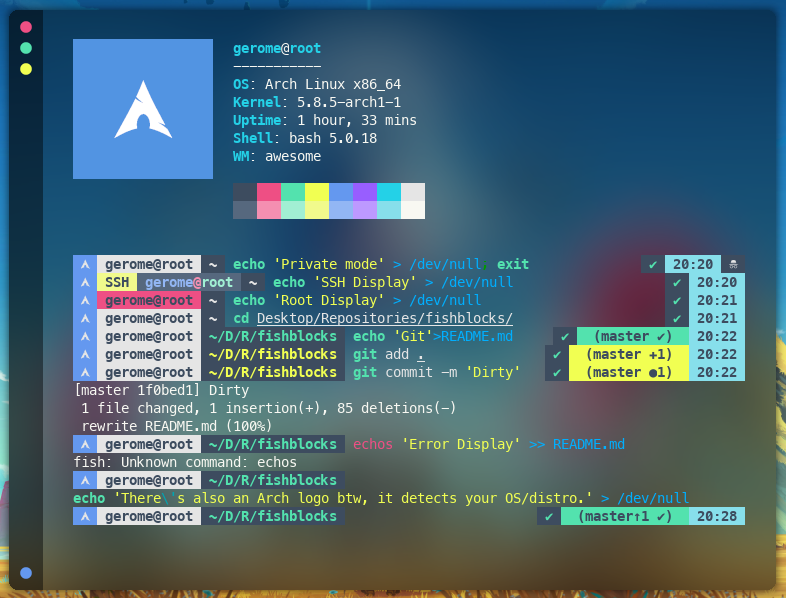
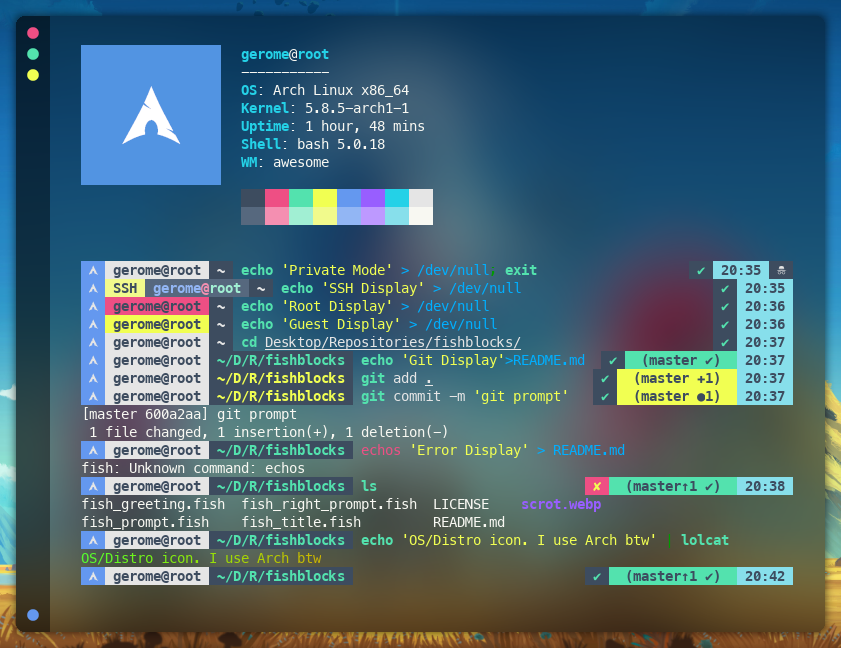
scrot

diff --git a/README.md b/README.md
@@ -1,1 +1,85 @@
-Git Display
+# fishblocks
+A dead simple fishshell prompt.
+
+| Fishblocks Preview |
+| --- |
+| ![Preview](scrot.webp) |
+
+## Dependencies
+
++ `fish > 3.1.0`
++ `git`
++ A nerd font. `MesloLGS NF` is recommended.
+
+## Usage
+
++ Install the dependencies.
++ Clone.
++ Copy the repository's content to `/PATH/TO/FISH/CONFIG/functions/`.
+
+## Features
+
++ Fast!
++ OS/Distribution icon display.
++ Private mode display.
++ SSH display.
++ Git display with color coding.
++ Previous command status display.
++ Dynamic background color for time display.
++ And many more.
+
+## Extras
+
+The colors may vary due to the difference of our terminal colors. Here's mine if you want it:
+
+<details><summary>Click here to show colors</summary>
+<p>
+
+```
+# Black
+color10		#3D4C5F
+color8		#56687E
+
+# Red
+color1		#EE4F84
+color9		#F48FB1
+
+# Green
+color2		#53E2AE
+color10		#A1EFD3
+
+# Yellow
+color3 		#F1FF52
+color11		#F1FA8C
+
+# Blue
+color4		#6498EF
+color12		#92B6F4
+
+# Magenta
+color5		#985EFF
+color13		#BD99FF
+
+# Cyan
+color6		#24D1E7
+color14		#87DFEB
+
+# White
+color7		#E5E5E5
+color15		#F8F8F2
+```
+
+</p>
+</details>
+
+## TODOs
+
+The roadmap for this project. PRs are welcome!
+
++ [ ] Test OS/Distribution icon display on different distros and platforms.
++ [ ] Improve Git display.
++ [x] Refactor/Modularized fish prompt script.
+
+## Contribute
+
+Fork the project, do some improvement or modifications, then feel free to submit a pull request! Bug reports are also welcome!
